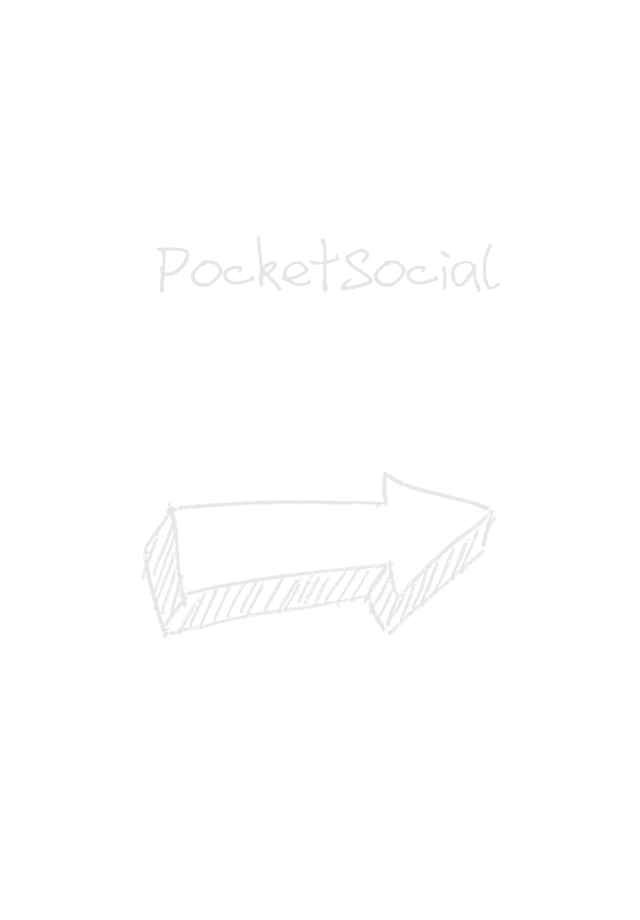
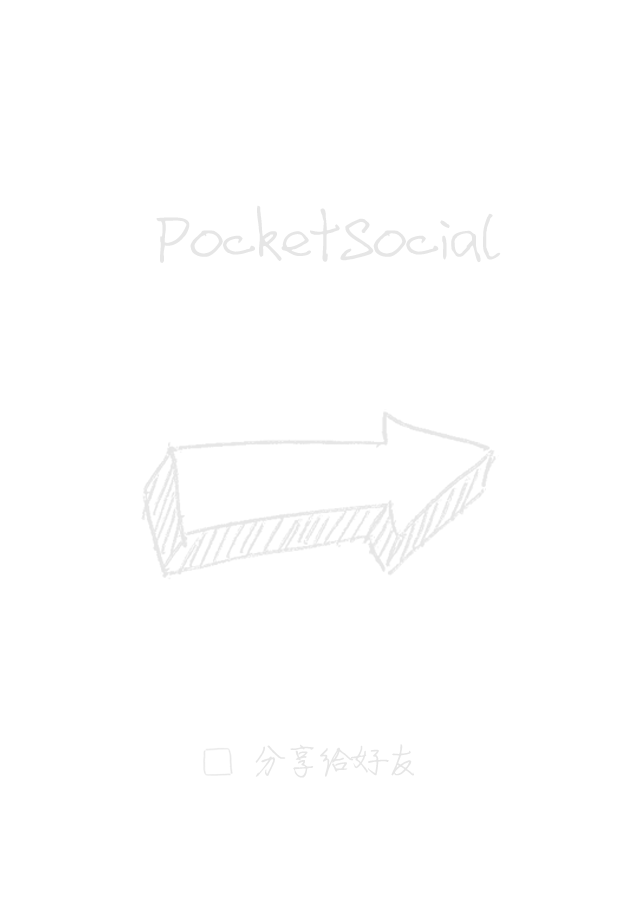
推广

diff --git a/SocialFusion/Class/LNRootViewController.m b/SocialFusion/Class/LNRootViewController.m
@@ -12,8 +12,12 @@
 #import "WeiboUser+Addition.h"
 #import "NSNotificationCenter+Addition.h"
 #import "UIApplication+Addition.h"
+#import "RenrenClient.h"
+#import "WeiboClient.h"
 
-#define kHAVEOPENED @"HAVEOPENED"
+#define kHasShownUserGuide @"kHasShownUserGuide_0_9_2"
+#define kHasSharedAd @"kHasSharedAd_0_9_2"
+
 #define CONTENT_VIEW_ORIGIN_X   7.0f
 #define CONTENT_VIEW_ORIGIN_Y   64.0f
 
@@ -70,9 +74,9 @@
     self.labelBarViewController.view.alpha = 0;
     self.loginViewController.view.alpha = 0;
     
-    if([[NSUserDefaults standardUserDefaults] boolForKey:kHAVEOPENED] == NO)
+    if([[NSUserDefaults standardUserDefaults] boolForKey:kHasShownUserGuide] == NO)
     {
-        [[NSUserDefaults standardUserDefaults] setBool:YES forKey:kHAVEOPENED];
+        [[NSUserDefaults standardUserDefaults] setBool:YES forKey:kHasShownUserGuide];
         [[NSUserDefaults standardUserDefaults] synchronize];
         [self didClickShowHelp];
     }
@@ -217,6 +221,31 @@
         }
         else 
             [self dropLoginViewAnimated:YES];
+        
+        
+        BOOL _selected=[[NSUserDefaults standardUserDefaults] boolForKey:@"kShared"];
+        BOOL _firstLoad=[[NSUserDefaults standardUserDefaults] boolForKey:kHasSharedAd];
+        if ((_selected&&!_firstLoad)==YES)
+        {
+            [[NSUserDefaults standardUserDefaults] setBool:YES forKey:kHasSharedAd];
+        RenrenClient *renren = [RenrenClient client];
+        [renren setCompletionBlock:^(RenrenClient *client) {
+            if(!client.hasError) {
+             
+            }
+        }];
+  
+
+        [renren postStatus:@"我正在使用全新的Pocket Social，完美整合人人网与新浪微博，带给我与众不同的社交体验。下载地址：http://itunes.apple.com/cn/app/pocket-social/id507420048?mt=8" withImage:[UIImage imageNamed:@"share.png"]];
+        
+            WeiboClient *weibo = [WeiboClient client];
+        [weibo setCompletionBlock:^(WeiboClient *client) {
+            if(!client.hasError) {
+                
+            }
+        }];
+        [weibo postStatus:@"我正在使用全新的Pocket Social，完美整合人人网与新浪微博，带给我与众不同的社交体验。下载地址：http://itunes.apple.com/cn/app/pocket-social/id507420048?mt=8" withImage:[UIImage imageNamed:@"share.png"]];
+        }
     }
 }
 

diff --git a/SocialFusion/Class/SpashViewController.m b/SocialFusion/Class/SpashViewController.m
@@ -16,12 +16,13 @@
 @synthesize scrollView = _scrollView;
 @synthesize pageImage = _pageImage;
 @synthesize delegate = _delegate;
-
+@synthesize chooseShare=_chooseShare;
 - (void)dealloc
 {
     NSLog(@"SplashView Release");
     [_scrollView release];
     [_pageImage release];
+    [_chooseShare release];
     [super dealloc];
 }
 
@@ -31,6 +32,10 @@
 {
     [super viewDidLoad];
     [_pageImage setImage:[UIImage imageNamed:@"pagecon1"]];
+    _chooseShare.center=CGPointMake(112+3*SPLASHVIEWWIDTH, 378);
+    _selectShared=YES;
+    [[NSUserDefaults standardUserDefaults] setBool:YES forKey:@"kShared"];
+    [[NSUserDefaults standardUserDefaults] synchronize];
     
     _scrollView.delegate = self;
     _scrollView.contentSize = CGSizeMake(5 * SPLASHVIEWWIDTH, SPLASHVIEWHEIGHT);
@@ -95,7 +100,7 @@
     {
         self.view.backgroundColor = [UIColor clearColor];
     }
-        
+
     if(pageNumber == 5) {
         [self dismissView];
     }
@@ -110,6 +115,30 @@
         [self.view removeFromSuperview];
         [self release];
     }];
+}
+
+- (IBAction)selectShare
+{
+    if (_selectShared == YES)
+    {
+        _selectShared = NO;
+        [UIView animateWithDuration:0.3f animations:^{
+            _chooseShare.alpha = 0.05;
+            _chooseShare.enabled = YES;
+        } completion:^(BOOL finished) {
+        }];
+    }
+    else
+    {
+        _selectShared = YES;
+        [UIView animateWithDuration:0.3f animations:^{
+            _chooseShare.alpha = 1;
+        } completion:^(BOOL finished) {
+        }];
+    }
+    
+    [[NSUserDefaults standardUserDefaults] setBool:_selectShared forKey:@"kShared"];
+    [[NSUserDefaults standardUserDefaults] synchronize];
 }
 
 @end

diff --git a/SocialFusion/Class/SpashViewController.h b/SocialFusion/Class/SpashViewController.h
@@ -11,15 +11,21 @@
 @protocol SplashViewDelegate;
 
 @interface SpashViewController : UIViewController<UIScrollViewDelegate>
-
+{
+    BOOL _selectShared;
+}
 @property(nonatomic, retain) IBOutlet UIScrollView *scrollView;
 @property(nonatomic, retain) IBOutlet UIImageView *pageImage;
 @property (nonatomic, assign) id<SplashViewDelegate> delegate;
+@property(nonatomic, retain) IBOutlet UIButton *chooseShare;
+
+- (IBAction)selectShare;
+- (void)dismissView;
+
 
 @end
 
 @protocol SplashViewDelegate <NSObject>
 
 - (void)splashViewWillRemove;
-
 @end
